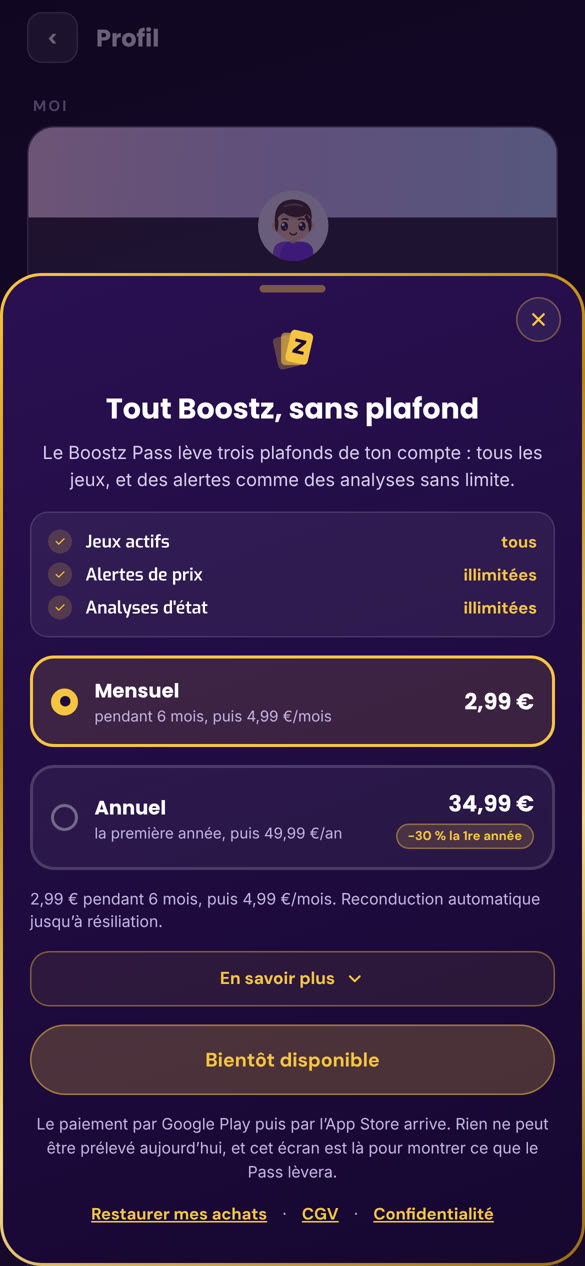
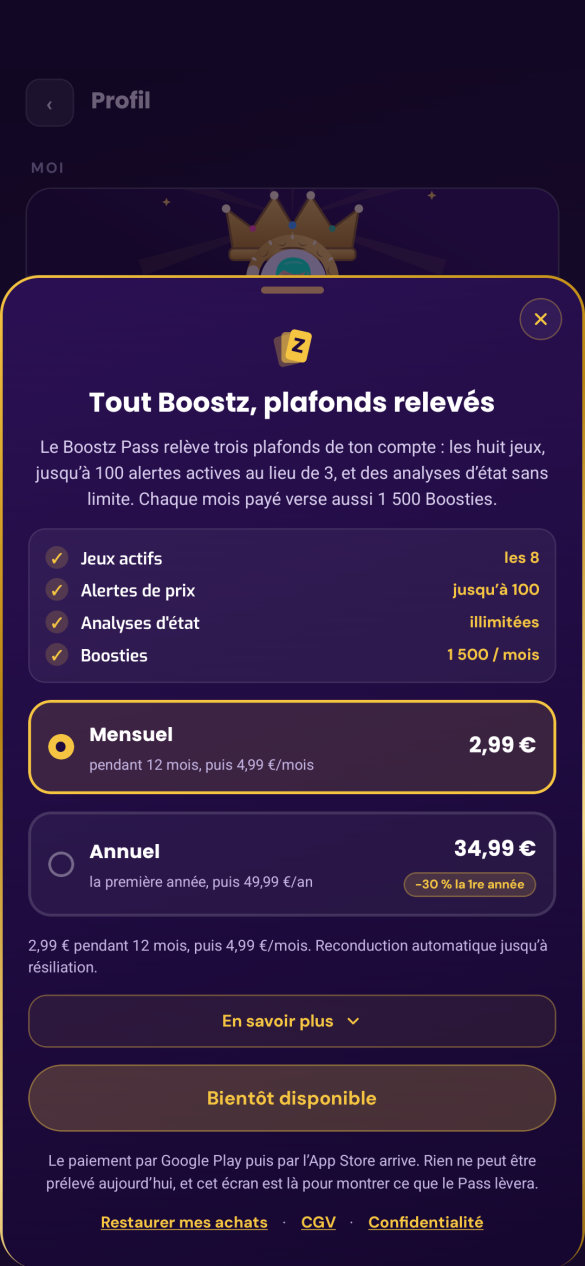
Accueil : le Boostz Pass annonce jusqu'à 100 alertes, pas des alertes illimitées
Le serveur plafonne les alertes d'un abonné à 100 actives à la fois
depuis le 14/10/2026, et l'appli l'annonce depuis la 1.0.28 (19/10). La
section du Pass disait encore « Alertes et analyses illimitées », et sa
capture montrait « Tout Boostz, sans plafond », « Alertes de prix
illimitées » et un tarif périmé, « 2,99 € pendant 6 mois » au lieu de
12. Sur une offre payante, c'est annoncer plus que ce que le service
livre.

L'étiquette dit « Jusqu'à 100 alertes, analyses illimitées » ; la
capture est refaite sur l'émulateur avec la feuille à jour, au même
format (585 × 1266) pour remplir le cadre. Son adresse prend ?v= pour
passer le cache de GitHub Pages.

Changed region(s): [[0.0, 0.0, 1.0, 1.0]]

diff --git a/index.html b/index.html
@@ -422,9 +422,9 @@
 </div>
 <div class="zvis">
 <div class="comp" style="height:420px">
-<div class="st ph big gold" data-a="land" style="left:168px;top:0;transform:rotate(4deg)"><img loading="lazy" decoding="async" src="assets/vitrine/app-pass.jpg" alt="Capture de Boostz : la présentation du Boostz Pass, mensuel ou annuel"></div>
+<div class="st ph big gold" data-a="land" style="left:168px;top:0;transform:rotate(4deg)"><img loading="lazy" decoding="async" src="assets/vitrine/app-pass.jpg?v=2026-10-19" alt="Capture de Boostz : la présentation du Boostz Pass, mensuel ou annuel"></div>
 <div class="st gold" data-a="land" style="transition-delay:.2s;position:absolute;left:0;top:110px;width:176px;padding:12px 14px;transform:rotate(-3deg)"><div class="ui" style="font-size:11px;letter-spacing:.14em;color:#F5C542">MENSUEL OU ANNUEL</div><div class="ui" style="font-size:16px;color:#fff;margin-top:6px;line-height:1.3">Résiliable à tout moment</div></div>
-<div class="st gold" data-a="land" style="transition-delay:.35s;position:absolute;left:8px;top:270px;width:170px;padding:12px 14px;transform:rotate(2deg)"><div class="ui" style="font-size:11px;letter-spacing:.14em;color:#F5C542">TOUS LES JEUX</div><div class="ui" style="font-size:16px;color:#fff;margin-top:6px;line-height:1.3">Alertes et analyses illimitées</div></div>
+<div class="st gold" data-a="land" style="transition-delay:.35s;position:absolute;left:8px;top:270px;width:170px;padding:12px 14px;transform:rotate(2deg)"><div class="ui" style="font-size:11px;letter-spacing:.14em;color:#F5C542">TOUS LES JEUX</div><div class="ui" style="font-size:16px;color:#fff;margin-top:6px;line-height:1.3">Jusqu’à 100 alertes, analyses illimitées</div></div>
 </div>
 </div>
 </div>
